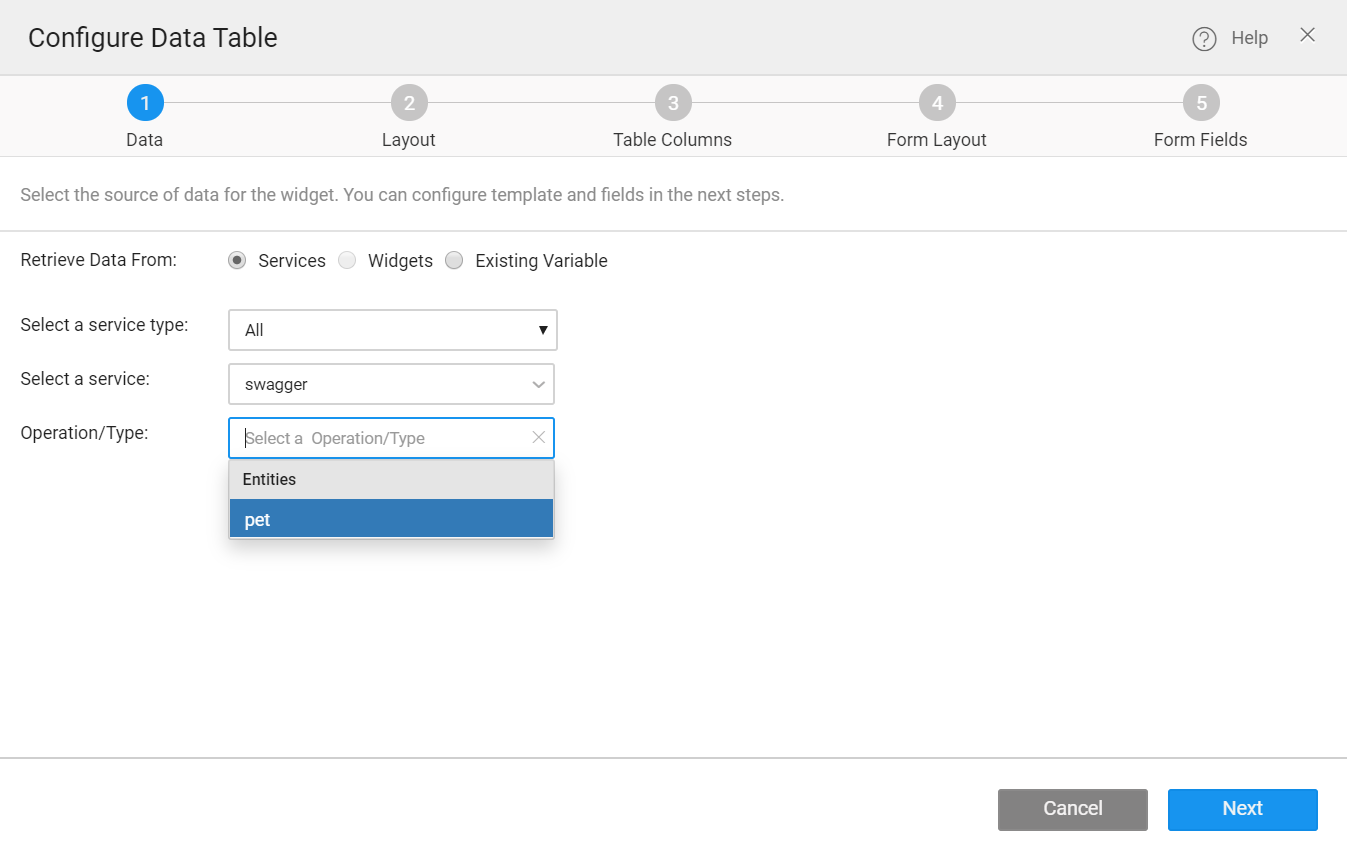
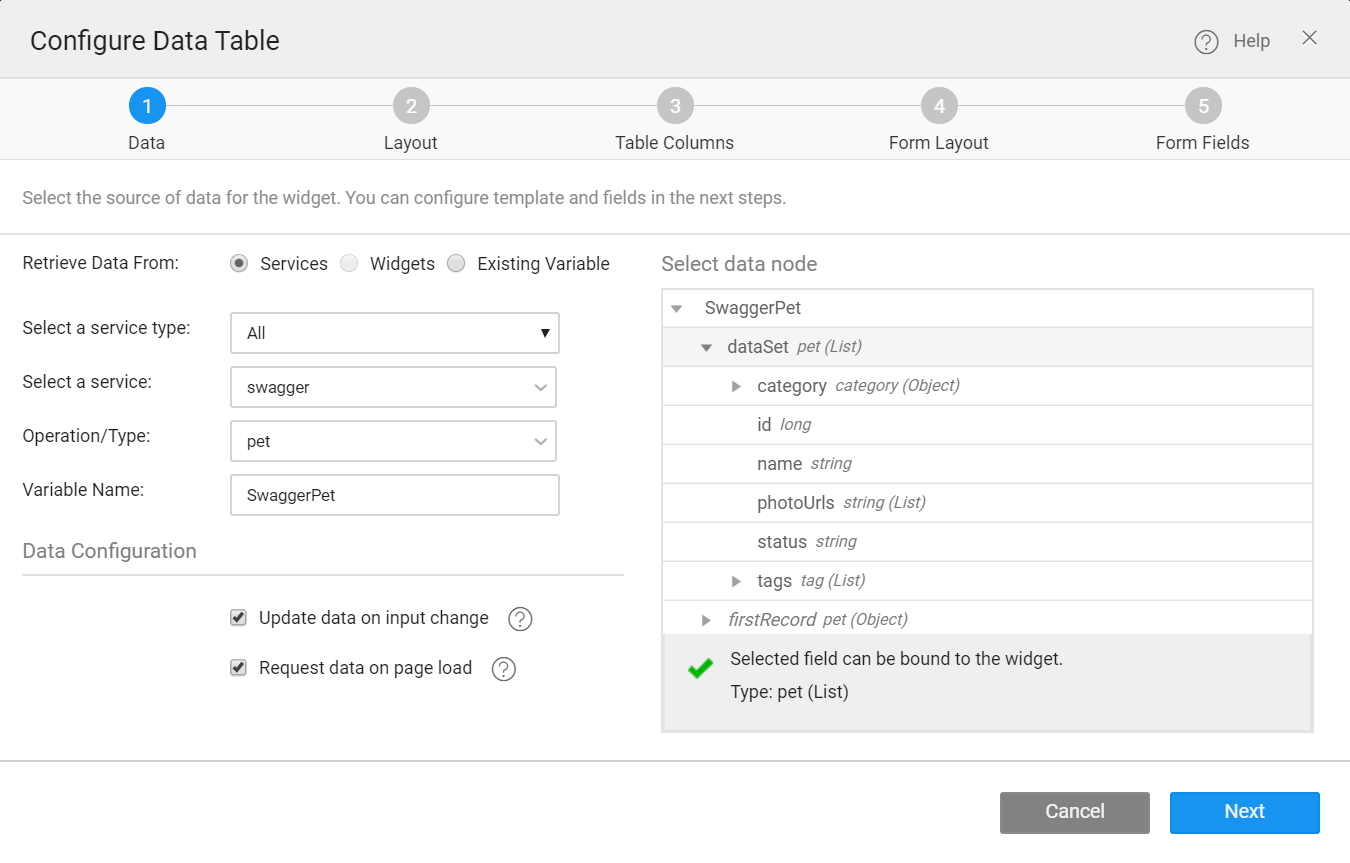
crud events

diff --git a/learn/app-development/variables/crud-variable.md b/learn/app-development/variables/crud-variable.md
@@ -13,24 +13,39 @@ A comprehensive list of these APIs can be found from the [API Designer](/learn/
 Since the service needs to be invoked to fetch the data, the widgets bound to these variables will display values only at run-time, not in Studio mode.
 :::
 
+### Supported Widgets
+
+**Web**: DataTable, Form
+
+**Mobile**: List with Form
+
 ## Variable Creation
 
-Drag and drop a widget on the canvas. In the following screen, a Datatable widget is used.
+Drag and drop a widget on the canvas. For example, in the following image, a Datatable widget is used. CRUD variable supports 
 
 ![datatable crud variable](/learn/assets/datatable-crud-variable.png)
 
-- **Service**: Select the service name from imported services.
-- **Select a service**: If the API exposes multiple services, you can choose from the list.
-- **Name**: Set by default, but you can modify it.
-- **Owner**: The scope of the Variable. Page is the default option. You can choose Application to make it available across the app.
+- **Retrieve Data From**: Services is selected by default.
+- **Select a Service type**: To use CRUD variable, select **All** from the dropdown.
+- **Select a Service**: Select the entity from the drop-down which lists the services available in your application. 
+- **Variable Creation**: Once you select the service and table/Entity for the service, a default variable will be created. See the Variable Name field populated by default which will be holding the dataset of the service. You can change the Variable name.
+- Select **Form As Dialog** or **Form Below**, and Click **Next**.
+- Select pagination, click **Next**.
+- Configure table columns. These fields can also be configured using **Advanced Settings** from the **Properties** panel.
+- Select template. 
+- Configure Form fields. These fields can also be configured using **Advanced Settings** from the **Properties** panel.
+- Click **Done**.
 
-#### Step-2
-You will be directed to the Variables page, with the new variable listed. You can see the following options:
-1. a **Web Service** Variable is created,
-2. with the default exposed method/selected method as target
-3. the **properties tab** contains all the properties like _behavior_ and _spinner_ behavior. [Know more about properties](#properties).
-4. the **data tab** will contain the fields serving as _input fields_ for the API
-5. the **events** tab will contain the events that can be configured to trigger any action. [Know more about events](#events).
+For more information to create Datatable, see [Create a Datatable](/learn/app-development/widgets/datalive/datatable/data-table-basic-usage).
+
+### Edit Variable from Variable Dialog
+
+![variable creation](/learn/assets/var_sel.png)
+
+![crud variable properties](/learn/assets/crud-var-properties.png)
+
+- **Name**: You can modify Name.
+- **Owner**: The scope of the Variable. Page is the default option. You can choose Application to make it available across the app.
 
 ## Properties
 
@@ -46,7 +61,16 @@ You will be directed to the Variables page, with the new variable listed. You ca
 
 ## Events
 
-During the life cycle of a Variable, a set of events are emitted by the Variable, thus giving you the option to control the behavior of the Variable such as input data validations, data processing, success/error handling, etc. [Know More](/learn/app-development/variables/variables-actions/#events-implementation).
+During the life cycle of a Variable, a set of events are emitted by the Variable, thus giving you the option to control the behavior of the Variable such as input data validations, data processing, success/error handling, and more. 
+
+- OnBeforeUpdate
+- OnResult
+- OnError
+- OnBeforeDatasetReady
+- OnCanUpdate
+- OnSuccess
+
+To learn how to implement Events, see [Events Documentation](/learn/app-development/variables/events).
 
 ## Methods
 

diff --git a/learn/app-development/variables/events.md b/learn/app-development/variables/events.md
@@ -2,30 +2,15 @@
 title: "Events"
 id: ""
 ---
-Introducing Variable Events. Learn how it works in WaveMaker. 
+Introducing Variable Events. Learn how it works in WaveMaker.
 
 ---
 
-In a typical life-cycle of Events:
-
-1. A user action triggers an event for the variable.
-2. The event action talks to the data source via the API call.
-3. The result from API call is reflected in the Data which in turn changes the user data view.
-
-[![var_lifecycle](/learn/assets/var_lifecycle.png)](/learn/assets/var_lifecycle.png)
-
-Four actions can be said to be responsible for triggering a variable life-cycle:
-
-- **Request data on page load** is a property that can be set for every variable. This can be used to initialize and fetch Live Variable data during page load.
-- **Pagination** - Live Variable results are paginated and page size can be configured based on the app needs.
-- **Events** - Widgets are updated/notified by user events like click, submit, or variable events like pre and post update, on error etc..
-- **Update data on input change** is a property which configures the ability to auto-reload Variable data, for example, if the data filter value changes dynamically from city = ‘New York’ to city = ‘Boston.
-
-[![var_triggers](/learn/assets/var_triggers.png)](/learn/assets/var_triggers.png)
-
-## Events Implementation
-
 During the life cycle of a Variable, a set of events are emitted by the Variable, thus giving you the option to control the behavior of the Variable such as input data validations, data processing, success/error handling, etc.
+
+:::note
+To learn the life cycle of a variable, see [Events](/learn/app-development/variables/events-overview).
+:::
 
 You can set each of these events to trigger an action like Javascript, another variable, navigation or notification calls or a combination of these.
 
@@ -35,7 +20,7 @@ A typical event flow when a variable is used to update data would be:
 
 [![lsv_eventcycle](/learn/assets/LSV_eventcycle.png)](/learn/assets/LSV_eventcycle.png) 
 
-:::note
+:::important
 The onBeforeUpdate event in the above diagram differs based upon the type of variable as explained in the table below. It is:
 
 - onBeforeListRecords for Database CRUD Variable with READ operation
@@ -187,7 +172,9 @@ Page.HrdbEmployeeDataonBeforeDatasetReady = function(variable, data) {
 | **onSuccess** | Allows you to trigger an action when the Variable has completed its life cycle. Any component bound to the resultant dataSet of this Variable will be updated just before this event is triggered. So, If you want to trigger another Variable which is dependent on the dataSet of this Variable, the Variable should be triggered by this event. An additional last argument as the “operation-name” that holds the invoked operation is present for Database CRUD Variables. |
 | **onError** | This event is called if there is an error generated during the Service call. An additional last argument as the “operation-name” that holds the invoked operation is present for Database CRUD Variables. |
 
-**NOTE**: WaveMaker supports binding multiple actions to a given event, i.e. a given event can trigger multiple actions.
+:::note
+WaveMaker supports binding multiple actions to a given event, i.e. a given event can trigger multiple actions.
+:::
 
 ## Methods
 

diff --git a/learn/app-development/variables/events-overview.md b/learn/app-development/variables/events-overview.md
@@ -1,0 +1,46 @@
+---
+title: "Events life cycle in WaveMaker"
+id: ""
+---
+---
+
+In a typical life-cycle of Events:
+
+1. A user action triggers an event for the variable.
+2. The event action talks to the data source via the API call.
+3. The result from API call is reflected in the Data which in turn changes the user data view.
+
+[![var_lifecycle](/learn/assets/var_lifecycle.png)](/learn/assets/var_lifecycle.png)
+
+Four actions can be said to be responsible for triggering a variable life-cycle:
+
+- **Request data on page load** is a property that can be set for every variable. This can be used to initialize and fetch Live Variable data during page load.
+- **Pagination** - Live Variable results are paginated and page size can be configured based on the app needs.
+- **Events** - Widgets are updated/notified by user events like click, submit, or variable events like pre and post update, on error etc..
+- **Update data on input change** is a property which configures the ability to auto-reload Variable data, for example, if the data filter value changes dynamically from city = ‘New York’ to city = ‘Boston.
+
+[![var_triggers](/learn/assets/var_triggers.png)](/learn/assets/var_triggers.png)
+
+## Events Implementation
+
+During the life cycle of a Variable, a set of events are emitted by the Variable, thus giving you the option to control the behavior of the Variable such as input data validations, data processing, success/error handling, etc.
+
+You can set each of these events to trigger an action like Javascript, another variable, navigation or notification calls or a combination of these.
+
+Based on the application needs, a component can be assigned to these events like calling another Service/Live Variable, or a Call Variable for notification, or a JavaScript function for custom logic, etc.
+
+A typical event flow when a variable is used to update data would be:
+
+[![lsv_eventcycle](/learn/assets/LSV_eventcycle.png)](/learn/assets/LSV_eventcycle.png) 
+
+:::note
+The onBeforeUpdate event in the above diagram differs based upon the type of variable as explained in the table below. It is:
+
+- onBeforeListRecords for Database CRUD Variable with READ operation
+- onBeforeUpdateRecord for Database CRUD Variable with UPDATE operation
+- onBeforeInsertRecord for Database CRUD Variable with INSERT operation
+- onBeforeDeleteRecord for Database CRUD Variable with DELETE operation
+- onBeforeUpdate for all types of variables except Database CRUD Variable
+:::
+
+For more information, see [Events](/learn/app-development/variables/events).

diff --git a/learn/app-development/variables/web-service.md b/learn/app-development/variables/web-service.md
@@ -71,7 +71,7 @@ You will be directed to the Variables page, with the new variable listed. You ca
 
 ## Events
 
-During the life cycle of a Variable, a set of events are emitted by the Variable, thus giving you the option to control the behavior of the Variable such as input data validations, data processing, success/error handling, etc. [Know More](/learn/app-development/variables/variables-actions/#events-implementation).
+During the life cycle of a Variable, a set of events are emitted by the Variable, thus giving you the option to control the behavior of the Variable such as input data validations, data processing, success/error handling, and more. For more information, see [Events](/learn/app-development/variables/events).
 
 ## Methods
 
